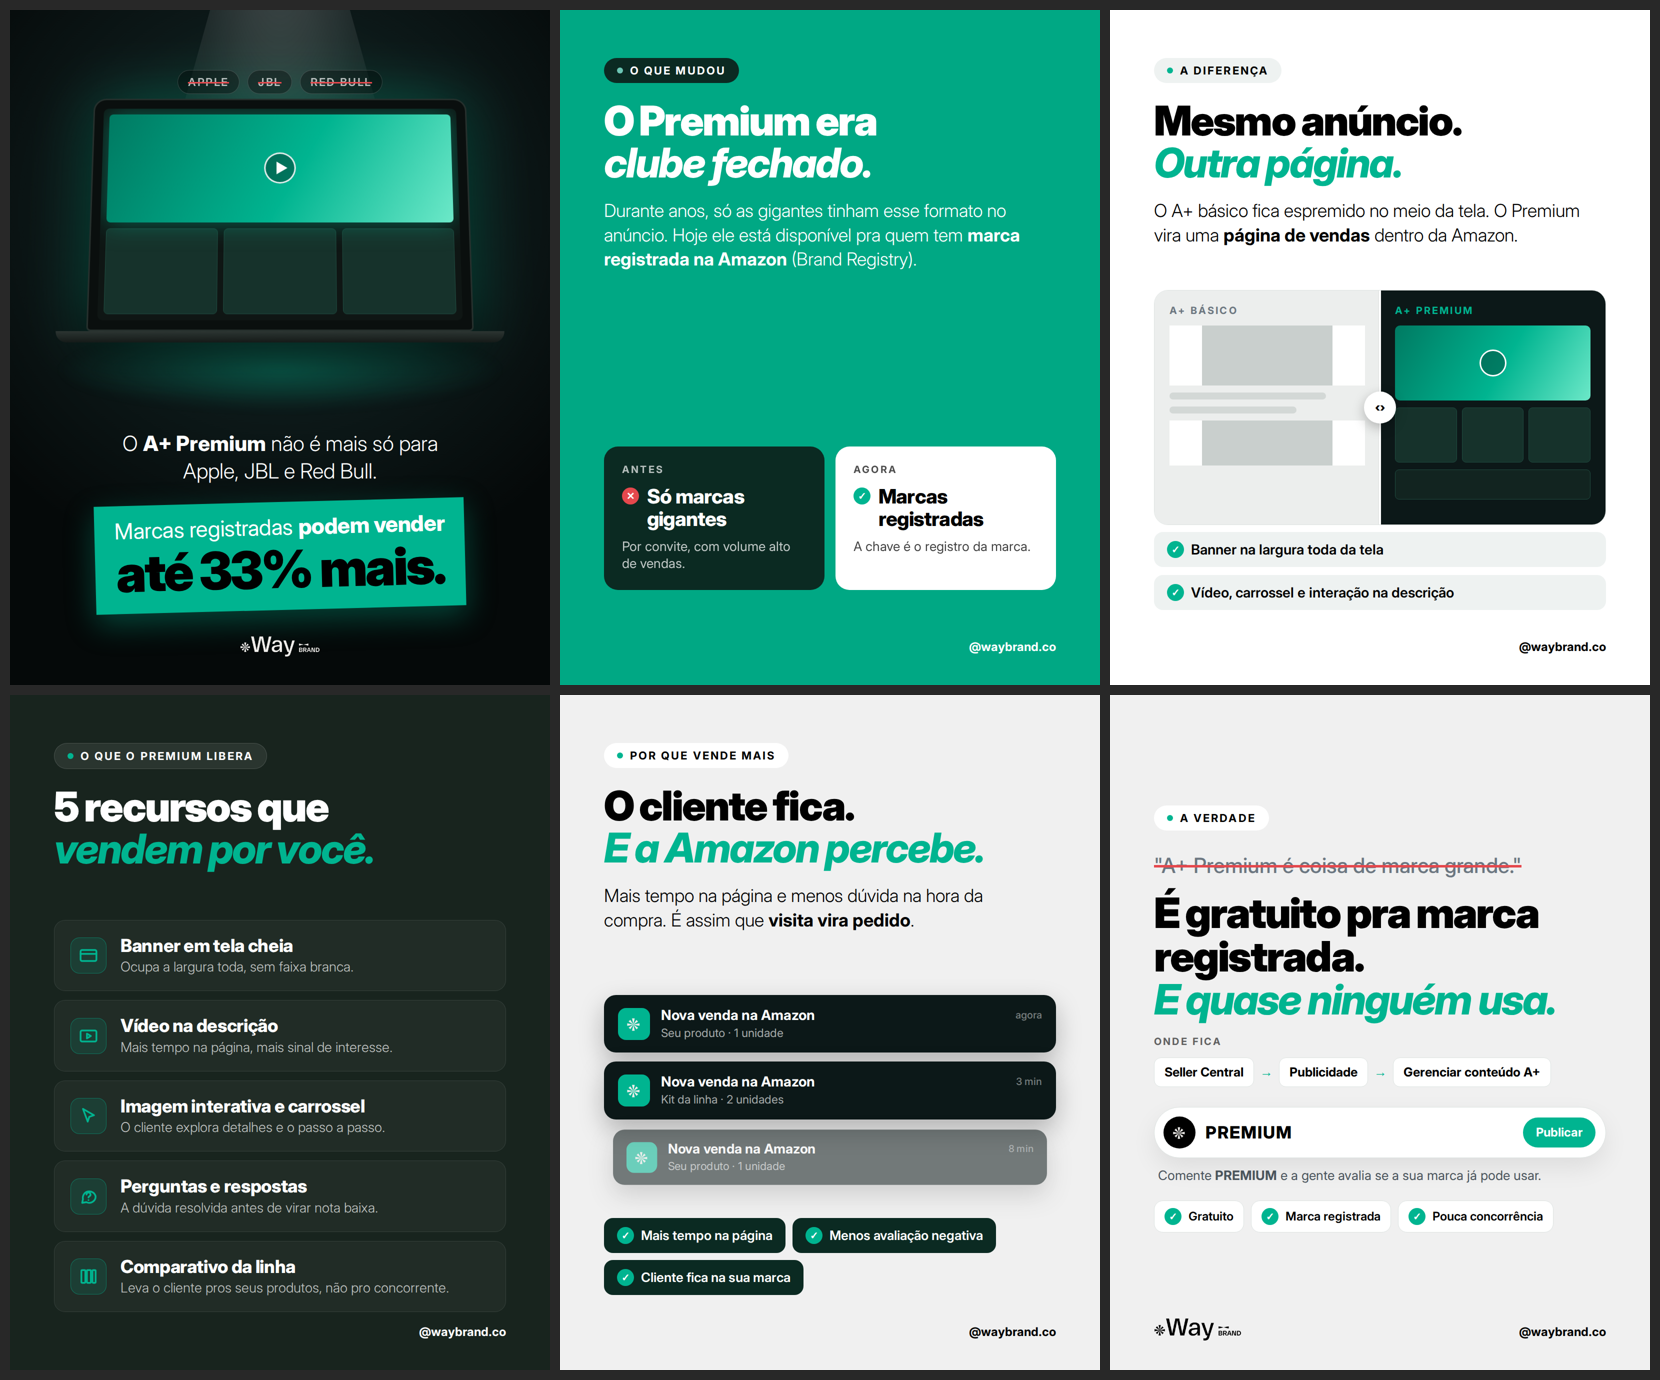
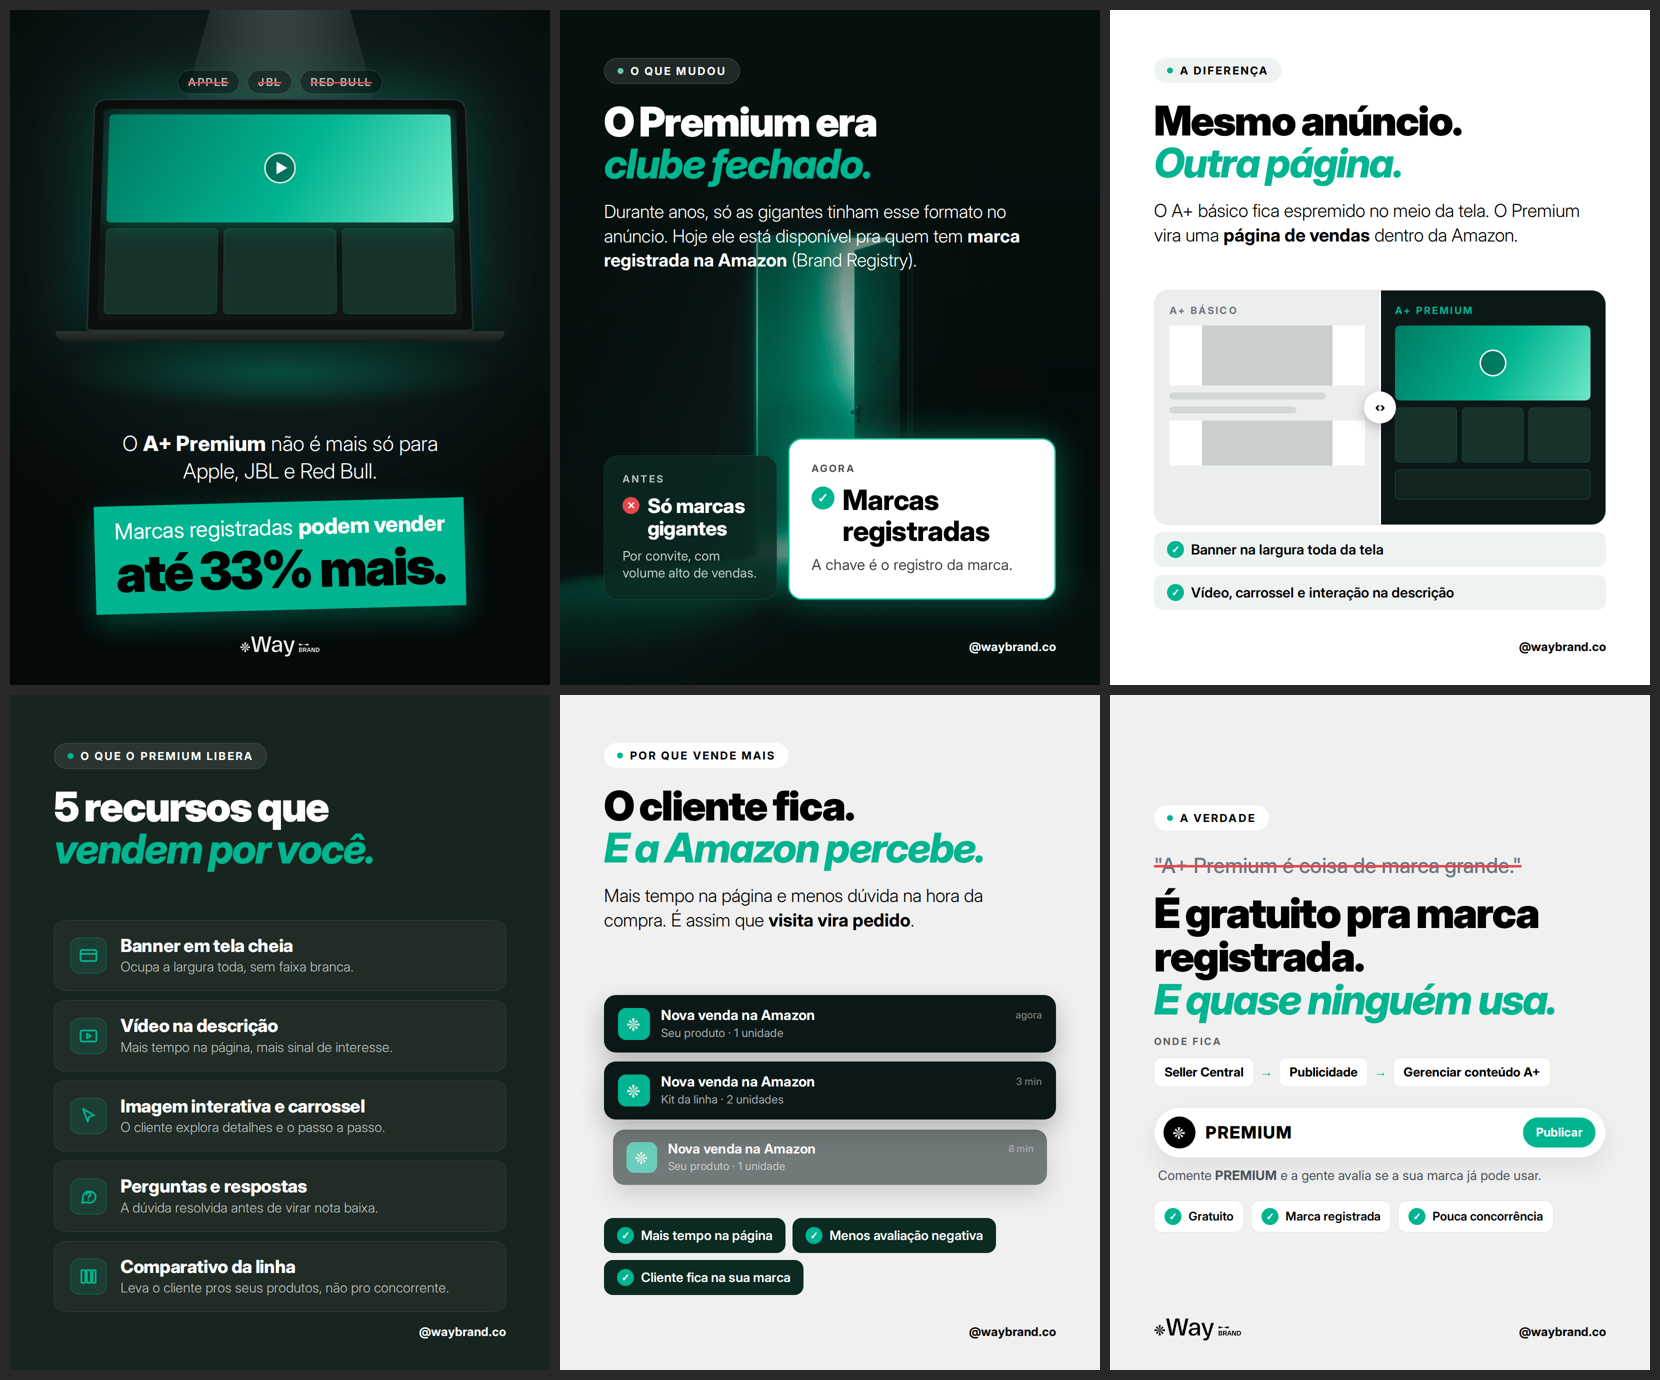
C04 slide 2: fundo com foto da porta em tons WayBrand, box Agora maior
Claude-Session: https://claude.ai/code/session_01AheN544mCiruarsAxNti7D

Changed region(s): [[0.338, 0.0, 0.6759, 0.4986]]

diff --git a/instagram/c04-a-plus-premium/index.html b/instagram/c04-a-plus-premium/index.html
@@ -88,7 +88,19 @@
   .cover .logo{left:50%;transform:translateX(-50%);bottom:56px;height:42px}
 
   /* ---------- 02 ---------- */
-  .compare{position:absolute;left:88px;right:88px;bottom:190px;display:grid;grid-template-columns:1fr 1fr;gap:22px}
+  /* slide 2: foto da porta em tons WayBrand, com opacidade */
+  .s2bg{background:#061210;color:#fff}
+  .s2bg:before{content:"";position:absolute;inset:0;background:url(assets/slide2-porta.jpg) center/cover;opacity:.8}
+  .s2bg:after{content:"";position:absolute;inset:0;background:linear-gradient(180deg,rgba(6,18,16,.8) 0%,rgba(6,18,16,.35) 36%,rgba(6,18,16,0) 55%,rgba(6,18,16,.7) 100%)}
+  .s2bg .compare,.s2bg .handle{z-index:2}
+  .s2bg .pill.onsolid{background:rgba(255,255,255,.1);border:1.5px solid rgba(255,255,255,.18)}
+  .s2bg h2 em{color:var(--green)}
+  .compare{position:absolute;left:88px;right:88px;bottom:170px;display:grid;grid-template-columns:1fr 1.55fr;gap:22px;align-items:end}
+  .compare .card:not(.now){background:rgba(11,42,34,.82);backdrop-filter:blur(6px);border:1.5px solid rgba(255,255,255,.1)}
+  .compare .card.now{padding:48px 44px;box-shadow:0 0 70px rgba(0,180,144,.45);border:3px solid var(--green)}
+  .compare .card.now .big{font-size:56px}
+  .compare .card.now .ok{width:46px;height:46px;font-size:26px}
+  .compare .card.now small{font-size:30px}
   .compare .card{background:#0B2A22;color:#fff}
   .compare .card.now{background:#fff;color:#000}
   .tag{font:700 20px/1 'Inter';letter-spacing:.16em;text-transform:uppercase;opacity:.7;margin-bottom:22px}
@@ -175,7 +187,7 @@
 </section>
 
 <!-- 02 · O QUE MUDOU — verde sólido -->
-<section class="slide solid" id="s2"><div class="pad">
+<section class="slide s2bg" id="s2"><div class="pad" style="position:absolute;z-index:2">
   <span class="pill onsolid">O que mudou</span>
   <h2>O Premium era<br><em>clube fechado.</em></h2>
   <p class="lead">Durante anos, só as gigantes tinham esse formato no anúncio. Hoje ele está disponível pra quem tem <b>marca registrada na Amazon</b> (Brand&nbsp;Registry).</p>
